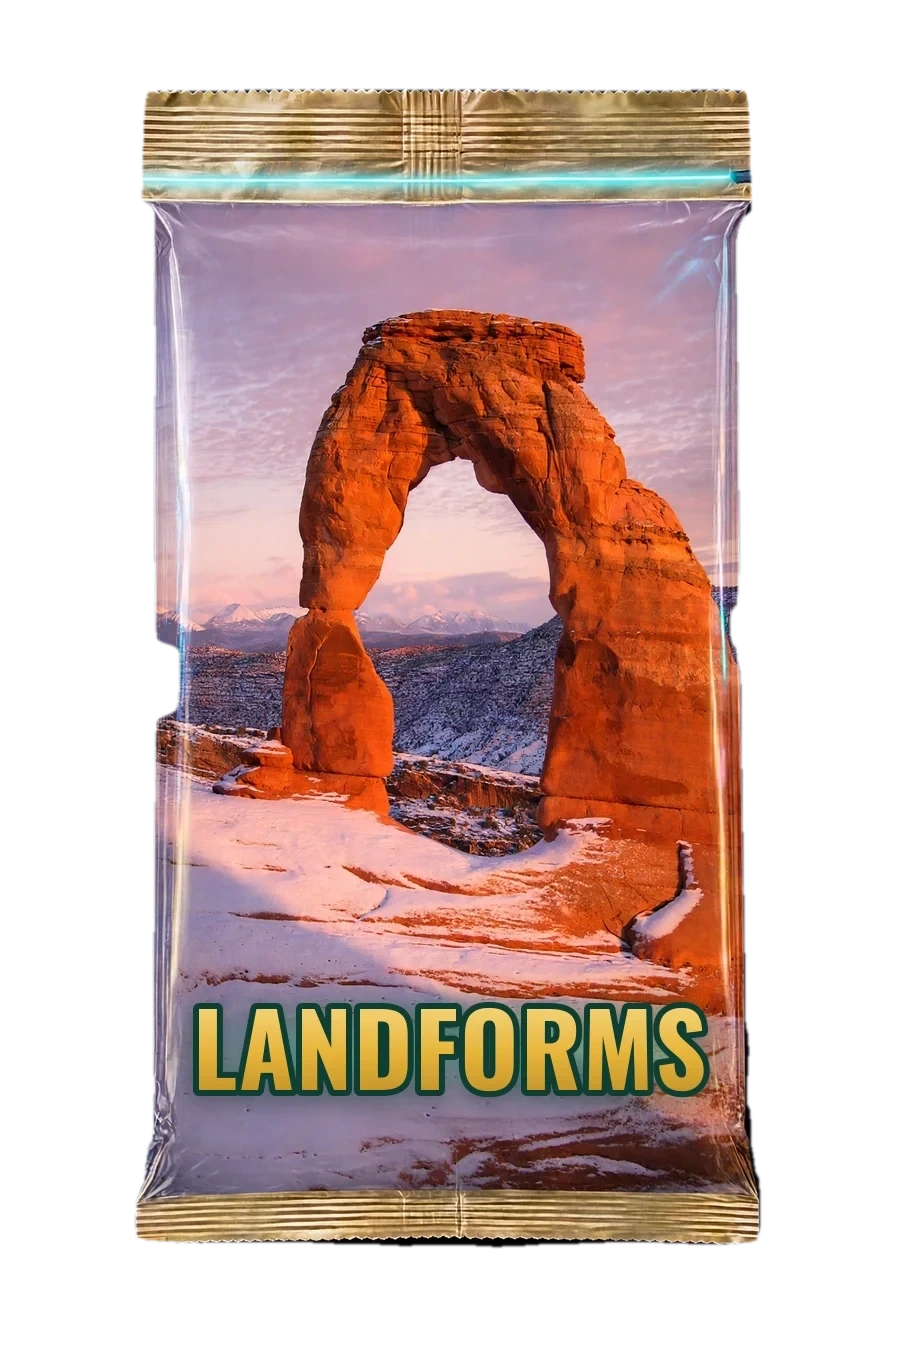
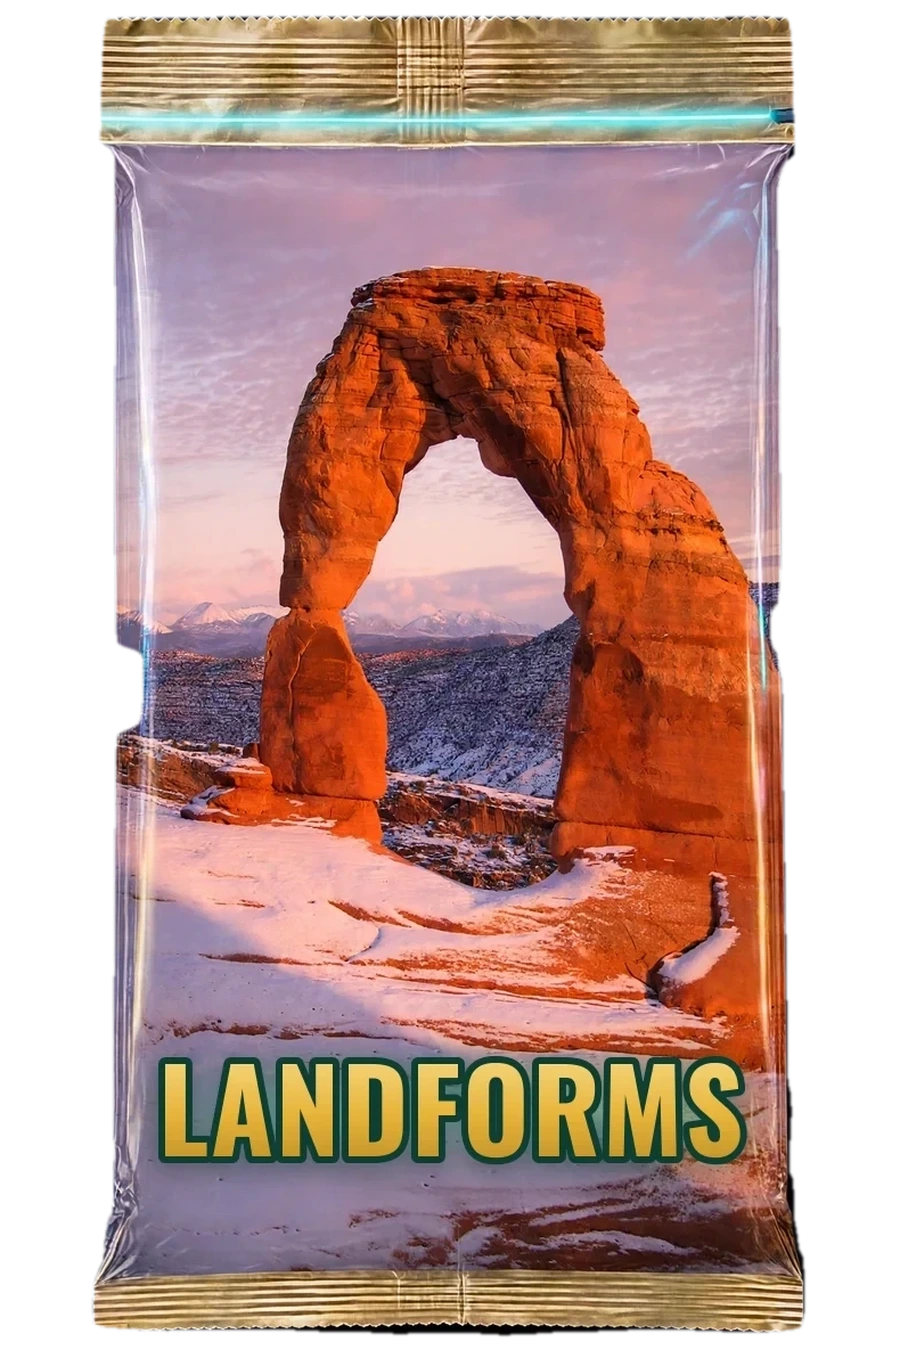
Align the tear to the art seam (tearLine 0.0886 on the cropped canvas) and enlarge the sealed pack (264px)

diff --git a/src/styles/game.css b/src/styles/game.css
@@ -581,7 +581,7 @@ body:not(.game-start) .load-pill.on { opacity: 0; visibility: hidden; transition
 .pack-screen::after { position: fixed; right: 12%; bottom: 8%; left: 12%; height: 15%; border-radius: 50%; background: radial-gradient(ellipse, rgba(0,0,0,.62), transparent 68%); filter: blur(10px); content: ''; pointer-events: none; }
 .pack-screen.sealed-on { touch-action: none; }
 .pack-screen[hidden] { display: none; }
-.expedition-panel.pack-panel { --pack-w: min(234px, 60vw); z-index: 1; max-height: none; overflow: visible; padding: 12px 4px 16px; border: 0; background: transparent; box-shadow: none; text-align: center; }
+.expedition-panel.pack-panel { --pack-w: min(264px, 68vw); z-index: 1; max-height: none; overflow: visible; padding: 12px 4px 16px; border: 0; background: transparent; box-shadow: none; text-align: center; }
 /* Spacing kept tight so the sealed pack at full --pack-w fits a 390x844
    screen with no scroll (the heading wraps to two lines at 390). */
 .pack-panel h2 { padding: 0 34px; color: #fff5d4; font-size: var(--fs-display); line-height: 1.1; text-shadow: 0 2px 14px rgba(0,0,0,.8); }

diff --git a/src/modes/pack.js b/src/modes/pack.js
@@ -11,9 +11,9 @@ import {
 
 let host = null;
 export const PACKS = [
-  { type: 'capitals', name: 'Capitals', art: 'assets/pack-world-capitals.webp', tearLine: 0.081 },
-  { type: 'landmarks', name: 'Landmarks', art: 'assets/pack-landmarks.webp', tearLine: 0.081, aspect: '900 / 1350' },
-  { type: 'landforms', name: 'Landforms', art: 'assets/pack-landforms.webp', tearLine: 0.081, aspect: '900 / 1350' },
+  { type: 'capitals', name: 'Capitals', art: 'assets/pack-world-capitals.webp', tearLine: 0.0886 },
+  { type: 'landmarks', name: 'Landmarks', art: 'assets/pack-landmarks.webp', tearLine: 0.0886, aspect: '900 / 1350' },
+  { type: 'landforms', name: 'Landforms', art: 'assets/pack-landforms.webp', tearLine: 0.0886, aspect: '900 / 1350' },
 ];
 export const pack = { active: false, type: 'capitals', card: 0, item: null, record: null };
 
